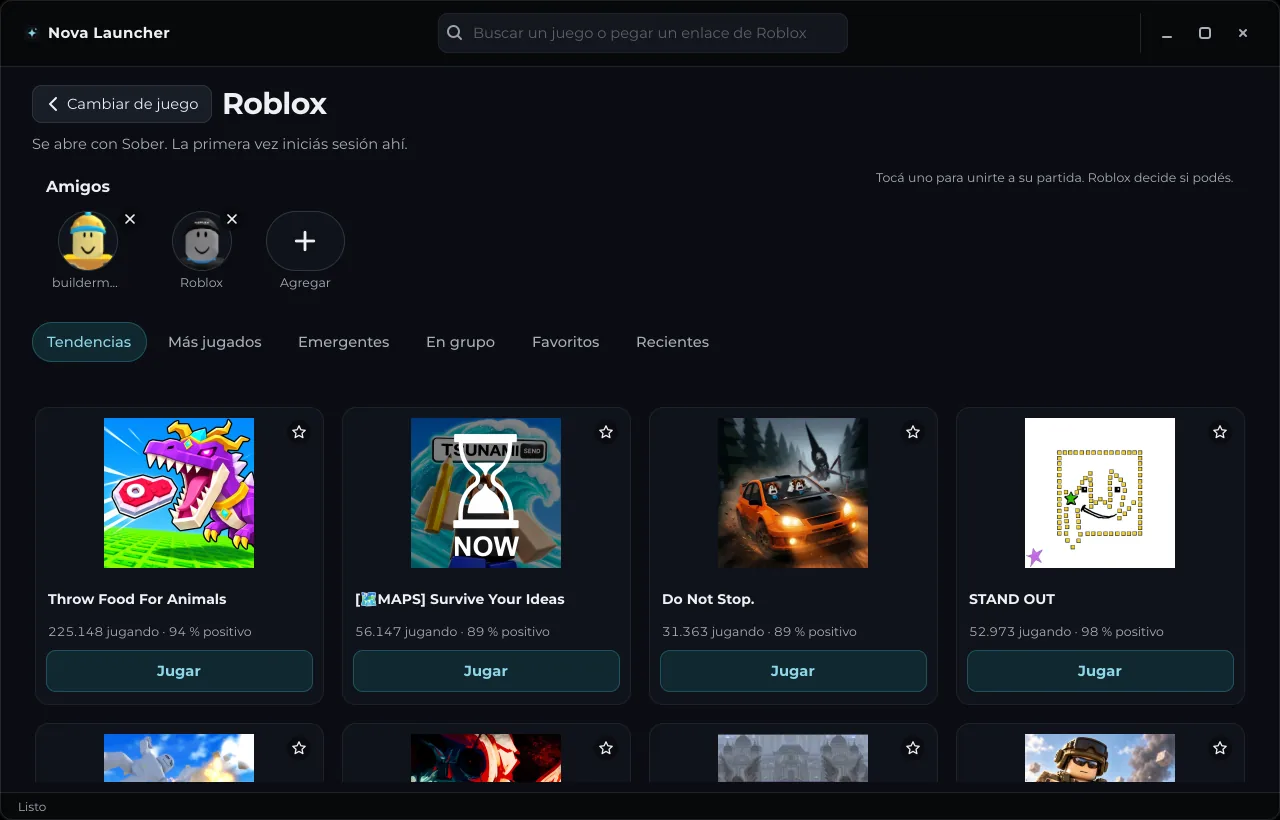
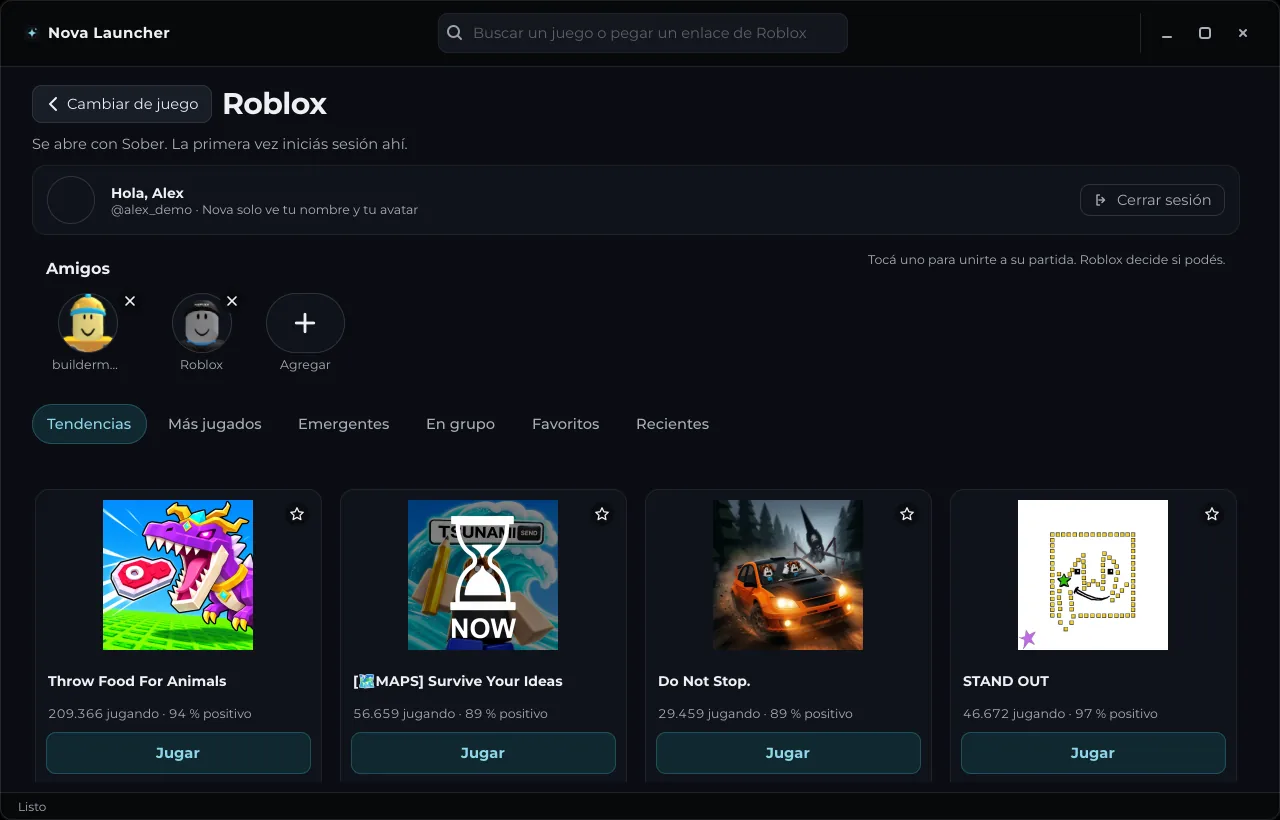
Website: 1.13.0, Roblox servers and optional sign-in

diff --git a/docs/index.html b/docs/index.html
@@ -52,21 +52,21 @@
       <div class="wrap hero-grid">
         <div class="hero-copy">
           <div class="badge-row">
-            <p class="badge"><span aria-hidden="true"></span> Versión estable · <b id="release-version">1.12.0</b></p>
+            <p class="badge"><span aria-hidden="true"></span> Versión estable · <b id="release-version">1.13.0</b></p>
           <a class="badge badge-link" href="#roblox"><span aria-hidden="true"></span> Nuevo · Roblox</a>
           <a class="badge badge-link" href="#servidor"><span aria-hidden="true"></span> Nuevo · Mi servidor</a>
           </div>
           <h1 id="titulo">Tus mods.<br>Tus mundos.<br><em>Un solo launcher.</em></h1>
           <p class="intro">Nova Launcher organiza tus instancias de Minecraft Java: instalá mods, importá los que ya tenés, guardá respaldos verificados y armá tu propio servidor para jugar con amigos. Y si también jugás Roblox, lo abrís desde el mismo lugar.</p>
           <div class="actions">
-            <a class="btn primary" id="release-rpm" href="descargas/nova-launcher-1.12.0-1.noarch.rpm" download><svg aria-hidden="true" viewBox="0 0 24 24"><path d="M12 3v12m-5-5 5 5 5-5M4 19h16"/></svg> Descargar para Fedora</a>
+            <a class="btn primary" id="release-rpm" href="descargas/nova-launcher-1.13.0-1.noarch.rpm" download><svg aria-hidden="true" viewBox="0 0 24 24"><path d="M12 3v12m-5-5 5 5 5-5M4 19h16"/></svg> Descargar para Fedora</a>
             <div class="windows-download" id="windows-download">
-              <a class="btn" id="windows-installer" href="https://github.com/wegfopjeawfgn/nova-launcher/releases/download/v1.12.0/nova-launcher-1.12.0-windows-x64-setup.exe"><svg aria-hidden="true" viewBox="0 0 24 24"><path d="M12 3v12m-5-5 5 5 5-5M4 19h16"/></svg> Descargar para Windows x64</a>
+              <a class="btn" id="windows-installer" href="https://github.com/wegfopjeawfgn/nova-launcher/releases/download/v1.13.0/nova-launcher-1.13.0-windows-x64-setup.exe"><svg aria-hidden="true" viewBox="0 0 24 24"><path d="M12 3v12m-5-5 5 5 5-5M4 19h16"/></svg> Descargar para Windows x64</a>
             </div>
           </div>
           <p class="download-meta">Comprobá cada archivo con su suma:
-            <a id="release-checksum" href="descargas/nova-launcher-1.12.0-1.noarch.rpm.sha256" download>SHA-256 del RPM</a> ·
-            <a id="windows-checksum" href="https://github.com/wegfopjeawfgn/nova-launcher/releases/download/v1.12.0/nova-launcher-1.12.0-windows-x64-setup.exe.sha256">SHA-256 del instalador</a>
+            <a id="release-checksum" href="descargas/nova-launcher-1.13.0-1.noarch.rpm.sha256" download>SHA-256 del RPM</a> ·
+            <a id="windows-checksum" href="https://github.com/wegfopjeawfgn/nova-launcher/releases/download/v1.13.0/nova-launcher-1.13.0-windows-x64-setup.exe.sha256">SHA-256 del instalador</a>
           </p>
         </div>
         <figure class="shot hero-shot">
@@ -89,20 +89,22 @@
     <section class="section wrap import" id="roblox" aria-labelledby="roblox-titulo">
       <div class="copy reveal">
         <h2 id="roblox-titulo">Minecraft y Roblox, en un solo launcher</h2>
-        <p>Al abrir Nova elegís a qué querés jugar. Con Roblox explorás los juegos del momento, entrás directo al que elijas y te unís a tus amigos, sin pasar por el navegador.</p>
+        <p>Al abrir Nova elegís a qué querés jugar. Con Roblox explorás los juegos del momento, elegís un servidor, entrás directo al juego y te unís a tus amigos, sin pasar por el navegador.</p>
         <dl class="kinds">
           <div><dt>Explorar</dt><dd>Tendencias, Más jugados, Emergentes y En grupo</dd></div>
           <div><dt>Buscar</dt><dd>por nombre, o pegando el enlace de un juego de roblox.com</dd></div>
           <div><dt>Jugar</dt><dd>abre ese juego con Sober en Linux, o con el cliente oficial en Windows y Mac</dd></div>
+          <div><dt>Servidores</dt><dd>los servidores públicos de cada juego, con jugadores y ping, para unirte a uno</dd></div>
           <div><dt>Amigos</dt><dd>una fila arriba con tus amigos: tocás uno para unirte a su partida</dd></div>
           <div><dt>Tuyos</dt><dd>favoritos con una estrella y los últimos juegos que abriste</dd></div>
         </dl>
         <ul class="checks">
-          <li>Nova no pide ni ve tu contraseña de Roblox: iniciás sesión en Sober o en el cliente oficial.</li>
+          <li>Podés iniciar sesión con la página oficial de Roblox para ver tu nombre y tu avatar en Nova. Es opcional y Nova no ve tu contraseña.</li>
           <li>La lista de amigos la armás vos, por nombre de usuario: Nova no lee tu cuenta de Roblox ni sabe quién está conectado. Roblox decide si podés unirte.</li>
           <li>Si un juego es de pago, el botón muestra su precio; Nova no sabe si ya lo tenés.</li>
+          <li>Servidores privados: Nova no puede saber si un juego los permite ni cuánto cuestan. Un botón abre la página del juego, donde los creás.</li>
           <li>En Linux hace falta Sober, un cliente no oficial; Nova te avisa si no lo encuentra.</li>
-          <li>Probado en Fedora con Sober. Unirse a un amigo y Windows y Mac todavía no se probaron de punta a punta.</li>
+          <li>Probado en Fedora con Sober. Unirse a un amigo o a un servidor exacto, y Windows y Mac, todavía no se probaron de punta a punta.</li>
         </ul>
       </div>
       <div class="shots">
@@ -112,11 +114,11 @@
         </figure>
         <figure class="shot reveal">
           <img src="assets/nova-roblox-amigos.webp" width="1280" height="820" loading="lazy" alt="Pantalla de Roblox en Nova con el buscador arriba, la fila de amigos con sus avatares, las pestañas de categorías y una grilla de juegos con botón Jugar">
-          <figcaption>La fila de amigos arriba. Amigos de ejemplo y juegos reales de Roblox.</figcaption>
+          <figcaption>La cuenta y la fila de amigos arriba. Cuenta y amigos de ejemplo, juegos reales de Roblox.</figcaption>
         </figure>
-        <figure class="shot reveal">
-          <img src="assets/nova-roblox-pago.webp" width="1280" height="820" loading="lazy" alt="Juegos de Roblox en Nova; uno de pago tiene el botón De pago con su precio en Robux">
-          <figcaption>Un juego de pago muestra su precio. Juegos reales de Roblox.</figcaption>
+        <figure class="shot narrow reveal">
+          <img src="assets/nova-roblox-servidores.webp" width="520" height="680" loading="lazy" alt="Ventana Servidores de un juego de Roblox: lista de servidores con su estado, jugadores y ping, y un botón Unirme en cada uno, más un bloque sobre servidores privados">
+          <figcaption>Los servidores de un juego. Servidores reales al momento de la captura.</figcaption>
         </figure>
       </div>
     </section>
@@ -322,10 +324,10 @@
       </div>
       <div class="terminal">
         <span>Si el archivo está en Descargas</span>
-        <pre><code id="install-downloads">sudo dnf install "$(xdg-user-dir DOWNLOAD)/nova-launcher-1.12.0-1.noarch.rpm"</code></pre>
+        <pre><code id="install-downloads">sudo dnf install "$(xdg-user-dir DOWNLOAD)/nova-launcher-1.13.0-1.noarch.rpm"</code></pre>
         <button type="button" data-copy-command="install-downloads" hidden>Copiar comando para Descargas</button>
         <span>Si ya estás en la carpeta del archivo</span>
-        <pre><code id="install-current">sudo dnf install ./nova-launcher-1.12.0-1.noarch.rpm</code></pre>
+        <pre><code id="install-current">sudo dnf install ./nova-launcher-1.13.0-1.noarch.rpm</code></pre>
         <button type="button" data-copy-command="install-current" hidden>Copiar comando para esta carpeta</button>
         <p id="copy-status" role="status"></p>
         <p>RPM sin firma. El primer arranque de Minecraft descarga los archivos del juego.</p>

diff --git a/docs/estilos.css b/docs/estilos.css
@@ -109,6 +109,7 @@ h3 { font-size: 1.15rem; font-weight: 620; letter-spacing: -0.01em; font-variati
 .shot.narrow { max-width: 420px; justify-self: center; }
 .import .shots { display: grid; gap: 20px; justify-items: end; }
 .import .shots .shot { max-width: none; width: 100%; }
+.import .shots .shot.narrow { max-width: 420px; justify-self: end; }
 .rust .shots { display: grid; gap: 20px; justify-items: end; }
 .rust .shot { max-width: none; width: 100%; }
 .rust .shot.small { max-width: 340px; }
